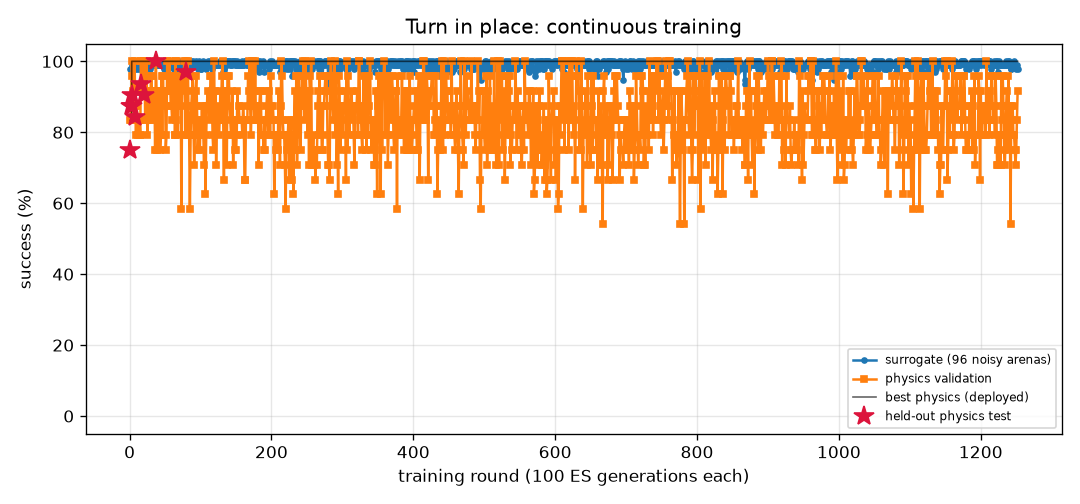
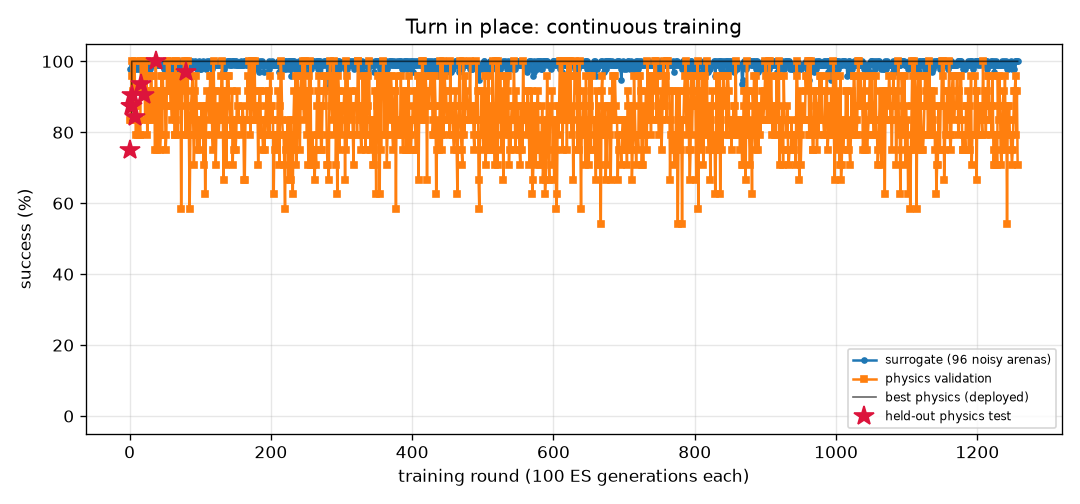
FlyLab: continuous training progress
- walk_forward: optimal, physics val 100% of 24, round 485
- turn: optimal, physics val 100% of 24, round 1257
- goto: optimal, physics val 100% of 24, round 376
- odor_seek: optimal, physics val 100% of 24, round 302
- odor_avoid: optimal, physics val 100% of 24, round 1067
- light_seek: optimal, physics val 100% of 24, round 576
- light_avoid: optimal, physics val 100% of 24, round 783

diff --git a/projects/09_flylab/training/turn/REPORT.md b/projects/09_flylab/training/turn/REPORT.md
@@ -1,14 +1,14 @@
 # Turn in place (`turn`) — training report
 
-*Auto-generated by `train_brains.py`, last updated 2026-11-21T19:29:59.*
+*Auto-generated by `train_brains.py`, last updated 2026-11-21T22:53:57.*
 
 ![curve](curve.png)
 
 | | |
 |---|---|
-| rounds | 1252 |
-| ES generations | 125200 |
-| physics runs | 30294 |
+| rounds | 1257 |
+| ES generations | 125700 |
+| physics runs | 30414 |
 | status | **optimal** |
 | best brain | round 80: physics validation **100%** on 24 arenas, surrogate 100% |
 | held-out physics test | **97%** on 32 unseen arenas (95% CI 84%-99%) (errors: [1.6, 3.3, 6.3, 3.7, 1.1, 0.4, 2.4, 2.9, 0.1, 2.6, 0.5, 2.7, 1.5, 3.1, 4.5, 0.2, 0.5, 1.1, 2.0, 4.4, 2.8, 3.2, 0.3, 2.2, 0.5, 3.0, 0.3, 5.4, 0.4, 1.0, 4.7, 10.7]) |
@@ -17,11 +17,6 @@ Physics error per arena: deg from target heading (< 20 = success).
 
 | round | level | gens | sigma | surrogate | physics val | val errors | test | note |
 |---:|---:|---:|---:|---:|---:|---|---:|---|
-| 1213 | 3 | 121300 | 0.024 | 100% | 92% | [2.0, 1.2, 6.2, 1.1, 11.1, 4.0, 5.5, 0.7, 5.1, 4.3, 2.1, 2.0, 0.7, 0.4, 4.3, 1.2, 2.1, 1.0, 1.0, 1.5, 0.6, 1.6, 7.1, 6.7] |  |  |
-| 1214 | 3 | 121400 | 0.024 | 98% | 88% | [7.7, 10.5, 9.3, 3.2, 4.4, 3.9, 1.5, 2.7, 2.6, 6.7, 2.8, 2.6, 3.1, 4.4, 2.1, 2.4, 2.2, 0.7, 2.7, 3.6, 8.2, 0.4, 1.0, 6.5] |  |  |
-| 1215 | 3 | 121500 | 0.025 | 99% | 96% | [4.0, 5.1, 0.6, 0.8, 5.6, 0.7, 5.7, 5.1, 3.7, 0.4, 5.5, 0.6, 1.6, 2.9, 4.4, 0.2, 0.8, 0.0, 0.2, 0.4, 0.9, 3.0, 5.2, 2.0] |  |  |
-| 1216 | 3 | 121600 | 0.025 | 99% | 96% | [6.5, 8.1, 5.5, 2.6, 4.1, 2.0, 3.8, 3.0, 3.8, 0.2, 4.0, 0.0, 0.6, 2.7, 3.0, 1.6, 0.5, 0.9, 1.6, 1.8, 5.7, 0.2, 2.1, 1.1] |  | restart from best |
-| 1217 | 3 | 121700 | 0.024 | 99% | 83% | [5.8, 9.5, 10.3, 2.7, 6.9, 2.9, 3.2, 1.3, 1.8, 1.8, 3.2, 2.4, 3.1, 5.3, 2.5, 0.4, 2.1, 1.1, 0.4, 1.6, 5.0, 1.0, 3.4, 5.7] |  |  |
 | 1218 | 3 | 121800 | 0.025 | 99% | 83% | [3.6, 4.4, 1.3, 1.3, 1.3, 1.8, 4.8, 5.2, 3.9, 0.4, 3.8, 0.2, 2.7, 1.1, 4.0, 3.3, 0.7, 0.2, 2.4, 3.0, 2.5, 1.6, 6.0, 6.4] |  |  |
 | 1219 | 3 | 121900 | 0.025 | 100% | 88% | [2.7, 7.3, 11.2, 2.1, 3.5, 5.5, 8.2, 10.2, 7.6, 1.2, 7.2, 4.9, 2.4, 0.7, 7.0, 15.6, 4.6, 5.1, 15.5, 12.2, 4.7, 1.6, 9.4, 11.6] |  |  |
 | 1220 | 3 | 122000 | 0.024 | 99% | 79% | [8.0, 10.0, 0.4, 2.9, 10.0, 0.5, 2.4, 0.8, 3.4, 0.9, 4.1, 2.3, 1.6, 5.2, 1.4, 1.6, 2.4, 0.6, 1.7, 1.3, 7.1, 0.3, 2.9, 2.6] |  | restart from best |
@@ -57,3 +52,8 @@ Physics error per arena: deg from target heading (< 20 = success).
 | 1250 | 3 | 125000 | 0.025 | 99% | 75% | [6.4, 2.6, 2.5, 0.4, 4.6, 2.7, 6.0, 6.3, 6.4, 0.5, 5.3, 0.7, 1.1, 0.3, 3.5, 0.7, 0.5, 1.1, 0.8, 7.3, 2.6, 0.8, 4.0, 2.9] |  |  |
 | 1251 | 3 | 125100 | 0.025 | 99% | 83% | [8.6, 8.1, 1.1, 4.1, 5.4, 1.3, 3.9, 1.4, 3.9, 0.3, 4.1, 0.7, 1.6, 6.1, 4.4, 1.4, 0.2, 0.1, 1.2, 0.9, 3.5, 0.6, 4.5, 2.3] |  |  |
 | 1252 | 3 | 125200 | 0.025 | 98% | 92% | [5.3, 9.3, 4.5, 5.9, 5.8, 1.0, 3.7, 5.0, 3.7, 0.4, 5.3, 2.4, 2.0, 3.1, 4.3, 2.9, 3.0, 0.0, 2.2, 3.2, 5.8, 0.8, 4.1, 2.1] |  | restart from best |
+| 1253 | 3 | 125300 | 0.024 | 100% | 92% | [8.7, 10.6, 0.8, 3.4, 3.2, 2.4, 1.2, 5.9, 1.4, 2.0, 0.1, 4.3, 1.8, 4.8, 0.5, 4.3, 3.8, 1.8, 4.7, 3.8, 5.4, 1.8, 3.2, 0.6] |  |  |
+| 1254 | 3 | 125400 | 0.024 | 100% | 96% | [6.6, 11.1, 4.1, 2.1, 1.0, 3.1, 1.4, 1.5, 1.5, 1.3, 1.8, 3.9, 2.0, 6.1, 0.3, 3.4, 3.6, 2.1, 3.4, 3.1, 6.7, 1.4, 2.4, 0.7] |  |  |
+| 1255 | 3 | 125500 | 0.024 | 100% | 79% | [6.8, 5.9, 1.6, 2.4, 5.0, 1.8, 5.3, 2.8, 5.5, 0.3, 4.6, 0.6, 0.3, 2.6, 3.2, 9.2, 0.7, 0.8, 1.7, 0.3, 4.4, 0.5, 5.5, 6.0] |  |  |
+| 1256 | 3 | 125600 | 0.024 | 100% | 92% | [5.6, 7.7, 6.9, 3.2, 0.6, 1.4, 4.4, 1.2, 2.9, 1.5, 2.3, 1.1, 1.2, 4.0, 2.5, 0.8, 1.3, 0.9, 1.8, 1.6, 5.7, 0.4, 3.7, 2.8] |  | restart from best |
+| 1257 | 3 | 125700 | 0.024 | 100% | 71% | [8.0, 10.8, 1.7, 3.3, 2.9, 115.9, 2.5, 0.4, 3.6, 0.4, 2.3, 3.0, 2.0, 1.9, 1.8, 4.8, 2.7, 0.6, 4.4, 1.5, 6.7, 1.4, 2.3, 1.1] |  |  |

diff --git a/projects/09_flylab/training/odor_seek/REPORT.md b/projects/09_flylab/training/odor_seek/REPORT.md
@@ -1,14 +1,14 @@
 # Find food by smell (`odor_seek`) — training report
 
-*Auto-generated by `train_brains.py`, last updated 2026-11-21T18:44:05.*
+*Auto-generated by `train_brains.py`, last updated 2026-11-21T22:56:12.*
 
 ![curve](curve.png)
 
 | | |
 |---|---|
-| rounds | 298 |
-| ES generations | 29800 |
-| physics runs | 6646 |
+| rounds | 302 |
+| ES generations | 30200 |
+| physics runs | 6742 |
 | status | **optimal** |
 | best brain | round 240: physics validation **100%** on 24 arenas, surrogate 100% |
 | held-out physics test | **100%** on 32 unseen arenas (95% CI 89%-100%) (errors: [0.02, 0.03, 0.03, 0.05, 0.04, 0.05, 0.06, 0.07, 0.09, 0.05, 0.05, 0.01, 0.12, 0.03, 0.07, 0.08, 0.02, 0.06, 0.03, 0.04, 0.0, 0.01, 0.09, 0.05, 0.04, 0.01, 0.07, 0.05, 0.08, 0.05, 0.05, 0.02]) |
@@ -17,10 +17,6 @@ Physics error per arena: mm from target at the end (< 1.5 and standing still = s
 
 | round | level | gens | sigma | surrogate | physics val | val errors | test | note |
 |---:|---:|---:|---:|---:|---:|---|---:|---|
-| 259 | 3 | 25900 | 0.024 | 100% | 100% | [0.2, 0.14, 0.17, 0.25, 0.18, 0.21, 0.16, 0.15, 0.16, 0.18, 0.17, 0.19, 0.21, 0.12, 0.17, 0.14, 0.18, 0.15, 0.18, 0.18, 0.18, 0.18, 0.23, 0.17] |  |  |
-| 260 | 3 | 26000 | 0.024 | 100% | 100% | [0.12, 0.1, 0.09, 0.1, 0.13, 0.13, 0.11, 0.14, 0.15, 0.12, 0.1, 0.15, 0.13, 0.08, 0.06, 0.09, 0.08, 0.09, 0.19, 0.17, 0.07, 0.18, 0.14, 0.16] |  | restart from best |
-| 261 | 3 | 26100 | 0.024 | 100% | 100% | [0.15, 0.1, 0.16, 0.1, 0.2, 0.1, 0.1, 0.2, 0.12, 0.11, 0.12, 0.13, 0.09, 0.15, 0.15, 0.1, 0.06, 0.12, 0.19, 0.14, 0.12, 0.07, 0.11, 0.18] |  |  |
-| 262 | 3 | 26200 | 0.024 | 100% | 100% | [0.14, 0.13, 0.14, 0.14, 0.13, 0.14, 0.18, 0.16, 0.12, 0.11, 0.2, 0.08, 0.11, 0.12, 0.11, 0.23, 0.16, 0.21, 0.11, 0.19, 0.16, 0.11, 0.11, 0.2] |  |  |
 | 263 | 3 | 26300 | 0.024 | 100% | 100% | [0.1, 0.15, 0.12, 0.14, 0.24, 0.13, 0.1, 0.16, 0.16, 0.17, 0.13, 0.1, 0.08, 0.14, 0.14, 0.12, 0.12, 0.18, 0.13, 0.13, 0.14, 0.09, 0.15, 0.19] |  |  |
 | 264 | 3 | 26400 | 0.024 | 100% | 100% | [0.21, 0.2, 0.15, 0.09, 0.14, 0.15, 0.13, 0.12, 0.21, 0.08, 0.18, 0.21, 0.16, 0.19, 0.17, 0.2, 0.11, 0.1, 0.15, 0.14, 0.16, 0.19, 0.12, 0.09] |  | restart from best |
 | 265 | 3 | 26500 | 0.024 | 100% | 100% | [0.11, 0.12, 0.09, 0.15, 0.11, 0.1, 0.1, 0.16, 0.16, 0.08, 0.1, 0.07, 0.2, 0.11, 0.17, 0.08, 0.06, 0.16, 0.1, 0.17, 0.16, 0.08, 0.09, 0.05] |  |  |
@@ -57,3 +53,7 @@ Physics error per arena: mm from target at the end (< 1.5 and standing still = s
 | 296 | 3 | 29600 | 0.024 | 100% | 100% | [0.15, 0.26, 0.21, 0.2, 0.14, 0.14, 0.06, 0.21, 0.11, 0.13, 0.13, 0.1, 0.13, 0.2, 0.04, 0.12, 0.14, 0.11, 0.14, 0.21, 0.21, 0.06, 0.19, 0.25] |  | restart from best |
 | 297 | 3 | 29700 | 0.024 | 100% | 100% | [0.24, 0.23, 0.15, 0.17, 0.19, 0.18, 0.21, 0.15, 0.2, 0.16, 0.2, 0.18, 0.17, 0.18, 0.26, 0.19, 0.19, 0.15, 0.18, 0.23, 0.2, 0.19, 0.24, 0.25] |  |  |
 | 298 | 3 | 29800 | 0.024 | 100% | 100% | [0.13, 0.18, 0.19, 0.15, 0.07, 0.16, 0.19, 0.14, 0.09, 0.16, 0.15, 0.06, 0.12, 0.19, 0.21, 0.16, 0.12, 0.2, 0.08, 0.23, 0.18, 0.18, 0.18, 0.05] |  |  |
+| 299 | 3 | 29900 | 0.024 | 100% | 100% | [0.11, 0.02, 0.11, 0.22, 0.13, 0.1, 0.13, 0.2, 0.12, 0.14, 0.15, 0.02, 0.04, 0.07, 0.07, 0.11, 0.12, 0.11, 0.1, 0.13, 0.13, 0.19, 0.14, 0.13] |  |  |
+| 300 | 3 | 30000 | 0.024 | 100% | 100% | [0.2, 0.12, 0.04, 0.13, 0.25, 0.05, 0.2, 0.13, 0.08, 0.11, 0.1, 0.11, 0.18, 0.08, 0.17, 0.11, 0.11, 0.11, 0.12, 0.12, 0.18, 0.18, 0.18, 0.21] |  | restart from best |
+| 301 | 3 | 30100 | 0.024 | 100% | 100% | [0.09, 0.09, 0.14, 0.07, 0.09, 0.09, 0.04, 0.17, 0.11, 0.06, 0.04, 0.09, 0.08, 0.11, 0.07, 0.05, 0.08, 0.11, 0.11, 0.13, 0.12, 0.09, 0.12, 0.14] |  |  |
+| 302 | 3 | 30200 | 0.024 | 100% | 100% | [0.18, 0.14, 0.15, 0.12, 0.2, 0.13, 0.07, 0.1, 0.13, 0.11, 0.23, 0.13, 0.13, 0.12, 0.14, 0.15, 0.19, 0.12, 0.12, 0.22, 0.1, 0.14, 0.13, 0.13] |  |  |

diff --git a/projects/09_flylab/training/walk_forward/REPORT.md b/projects/09_flylab/training/walk_forward/REPORT.md
@@ -1,23 +1,22 @@
 # Walk forward (`walk_forward`) — training report
 
-*Auto-generated by `train_brains.py`, last updated 2026-11-21T21:59:15.*
+*Auto-generated by `train_brains.py`, last updated 2026-11-21T22:22:16.*
 
 ![curve](curve.png)
 
 | | |
 |---|---|
-| rounds | 484 |
-| ES generations | 48400 |
-| physics runs | 11662 |
+| rounds | 485 |
+| ES generations | 48500 |
+| physics runs | 11718 |
 | status | **optimal** |
-| best brain | round 437: physics validation **100%** on 24 arenas, surrogate 99% |
-| held-out physics test | **100%** on 32 unseen arenas (95% CI 89%-100%) (errors: [0.13, 0.13, 0.18, 0.2, 0.13, 0.13, 0.13, 0.2, 0.2, 0.19, 0.18, 0.13, 0.21, 0.19, 0.13, 0.15, 0.13, 0.13, 0.13, 0.16, 0.17, 0.2, 0.13, 0.12, 0.13, 0.13, 0.2, 0.13, 0.13, 0.13, 0.19, 0.13]) |
+| best brain | round 485: physics validation **100%** on 24 arenas, surrogate 100% |
+| held-out physics test | **100%** on 32 unseen arenas (95% CI 89%-100%) (errors: [0.14, 0.13, 0.15, 0.21, 0.14, 0.12, 0.13, 0.18, 0.2, 0.15, 0.13, 0.14, 0.2, 0.15, 0.12, 0.12, 0.14, 0.14, 0.13, 0.13, 0.14, 0.21, 0.14, 0.13, 0.14, 0.14, 0.18, 0.14, 0.14, 0.14, 0.17, 0.15]) |
 
 Physics error per arena: mm from target at the end (< 1.5 and standing still = success).
 
 | round | level | gens | sigma | surrogate | physics val | val errors | test | note |
 |---:|---:|---:|---:|---:|---:|---|---:|---|
-| 445 | 3 | 44500 | 0.025 | 100% | 100% | [0.17, 0.21, 0.14, 0.16, 0.21, 0.13, 0.21, 0.14, 0.21, 0.22, 0.14, 0.22, 0.14, 0.13, 0.17, 0.21, 0.15, 0.2, 0.14, 0.18, 0.14, 0.22, 0.21, 0.14] |  | restart from best |
 | 446 | 3 | 44600 | 0.025 | 100% | 100% | [0.31, 0.35, 0.27, 0.31, 0.35, 0.27, 0.36, 0.27, 0.36, 0.37, 0.27, 0.38, 0.28, 0.27, 0.31, 0.38, 0.29, 0.34, 0.27, 0.32, 0.27, 0.37, 0.37, 0.27] |  |  |
 | 447 | 3 | 44700 | 0.024 | 100% | 100% | [0.23, 0.24, 0.08, 0.23, 0.25, 0.05, 0.25, 0.19, 0.25, 0.23, 0.05, 0.22, 0.09, 0.12, 0.25, 0.23, 0.22, 0.25, 0.19, 0.25, 0.2, 0.23, 0.21, 0.07] |  |  |
 | 448 | 3 | 44800 | 0.024 | 100% | 100% | [0.34, 0.33, 0.29, 0.34, 0.34, 0.09, 0.33, 0.31, 0.33, 0.33, 0.13, 0.23, 0.3, 0.3, 0.35, 0.32, 0.34, 0.35, 0.31, 0.35, 0.32, 0.33, 0.26, 0.3] |  |  |
@@ -57,3 +56,4 @@ Physics error per arena: mm from target at the end (< 1.5 and standing still = s
 | 482 | 3 | 48200 | 0.025 | 99% | 100% | [0.26, 0.17, 0.24, 0.26, 0.17, 0.23, 0.15, 0.25, 0.14, 0.11, 0.22, 0.06, 0.25, 0.23, 0.12, 0.1, 0.26, 0.18, 0.25, 0.13, 0.25, 0.08, 0.12, 0.25] |  |  |
 | 483 | 3 | 48300 | 0.025 | 100% | 100% | [0.22, 0.27, 0.2, 0.21, 0.27, 0.07, 0.27, 0.19, 0.27, 0.28, 0.2, 0.26, 0.19, 0.19, 0.23, 0.27, 0.2, 0.26, 0.19, 0.24, 0.19, 0.28, 0.26, 0.19] |  |  |
 | 484 | 3 | 48400 | 0.024 | 99% | 96% | [0.08, 0.07, 0.14, 0.06, 0.06, 0.04, 0.06, 0.05, 0.05, 0.09, 0.09, 0.11, 0.12, 0.03, 0.1, 0.08, 0.05, 0.3, 0.06, 0.28, 0.05, 0.08, 0.08, 0.12] |  |  |
+| 485 | 3 | 48500 | 0.025 | 100% | 100% | [0.13, 0.13, 0.14, 0.13, 0.13, 0.14, 0.13, 0.14, 0.13, 0.16, 0.15, 0.19, 0.14, 0.14, 0.12, 0.18, 0.13, 0.12, 0.13, 0.12, 0.14, 0.17, 0.2, 0.14] | 100% | new best |

diff --git a/projects/09_flylab/training/TRAINING.md b/projects/09_flylab/training/TRAINING.md
@@ -1,15 +1,15 @@
 # FlyLab brains — continuous training log
 
-*Auto-generated by `train_brains.py`, last updated 2026-11-21T21:59:15.*
+*Auto-generated by `train_brains.py`, last updated 2026-11-21T22:56:12.*
 
 Every skill has its own brain and its own training process: surrogate ES rounds, physics validation in MuJoCo, keep-the-best selection, and a held-out physics test that is never used for selection. See each skill's report for its full round-by-round history. Mastery is progressive: passing a level (100% physics validation, >=95% surrogate) doubles the validation and test arena sets; a brain is **optimal** once it holds up at level 3 (>=95% of 24 validation arenas) AND scores >=90% on the 32 held-out test arenas. Test columns show 95% Wilson confidence intervals.
 
 | skill | rounds | ES generations | physics runs | surrogate | physics val | **physics test** | status |
 |---|---:|---:|---:|---:|---:|---:|---|
-| [Walk forward](walk_forward/REPORT.md) | 484 | 48400 | 11662 | 99% | 100% of 24 | 100% of 32 (CI 89-100%) | **optimal** |
-| [Turn in place](turn/REPORT.md) | 1252 | 125200 | 30294 | 100% | 100% of 24 | 97% of 32 (CI 84-99%) | **optimal** |
+| [Walk forward](walk_forward/REPORT.md) | 485 | 48500 | 11718 | 100% | 100% of 24 | 100% of 32 (CI 89-100%) | **optimal** |
+| [Turn in place](turn/REPORT.md) | 1257 | 125700 | 30414 | 100% | 100% of 24 | 97% of 32 (CI 84-99%) | **optimal** |
 | [Go to a location](goto/REPORT.md) | 376 | 37600 | 8974 | 100% | 100% of 24 | 100% of 32 (CI 89-100%) | **optimal** |
-| [Find food by smell](odor_seek/REPORT.md) | 298 | 29800 | 6646 | 100% | 100% of 24 | 100% of 32 (CI 89-100%) | **optimal** |
+| [Find food by smell](odor_seek/REPORT.md) | 302 | 30200 | 6742 | 100% | 100% of 24 | 100% of 32 (CI 89-100%) | **optimal** |
 | [Escape a bad smell](odor_avoid/REPORT.md) | 1067 | 106700 | 22914 | 97% | 100% of 24 | 97% of 32 (CI 84-99%) | **optimal** |
 | [Walk toward light](light_seek/REPORT.md) | 576 | 57600 | 10704 | 100% | 100% of 24 | 100% of 32 (CI 89-100%) | **optimal** |
 | [Hide from light](light_avoid/REPORT.md) | 783 | 78300 | 19064 | 100% | 100% of 24 | 100% of 32 (CI 89-100%) | **optimal** |
